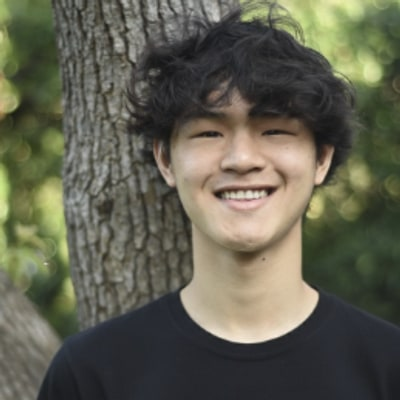
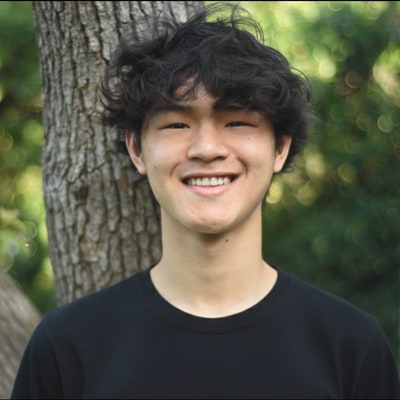
Roster: all 18 Eta pledges now link to LinkedIn; current LinkedIn headshots for six; Alejandra Marcos Cortezo spelling corrected; two profile URLs updated

diff --git a/brothers.html b/brothers.html
@@ -958,19 +958,34 @@
             </div>
           </div>
 
-          <!-- Aljandra Marcos Cortezo -->
+          <!-- Alejandra Marcos Cortezo -->
           <div class="profile-card">
             <div class="profile-image-container">
               <img
-                src="assets/brother-images-compressed/AljandraMarcosCortezo.jpg"
-                alt="Aljandra Marcos Cortezo"
+                src="assets/brother-images-compressed/AlejandraMarcosCortezo.jpg"
+                alt="Alejandra Marcos Cortezo"
                 class="profile-image"
                 loading="lazy"
                 decoding="async"
               />
+              <div class="linkedin-overlay">
+                <a
+                  href="https://www.linkedin.com/in/alejandramarcoscortezo/"
+                  class="linkedin-link"
+                  target="_blank"
+                  rel="noopener noreferrer"
+                >
+                  <img
+                    src="assets/brother-images-compressed/linkedin.png"
+                    alt="LinkedIn"
+                    class="linkedin-icon"
+                  />
+                  <span>View Profile</span>
+                </a>
+              </div>
             </div>
             <div class="profile-info">
-              <div class="profile-name">Aljandra Marcos Cortezo</div>
+              <div class="profile-name">Alejandra Marcos Cortezo</div>
             </div>
           </div>
 
@@ -1945,6 +1960,21 @@
                 loading="lazy"
                 decoding="async"
               />
+              <div class="linkedin-overlay">
+                <a
+                  href="https://www.linkedin.com/in/isabella-lele-220009268/"
+                  class="linkedin-link"
+                  target="_blank"
+                  rel="noopener noreferrer"
+                >
+                  <img
+                    src="assets/brother-images-compressed/linkedin.png"
+                    alt="LinkedIn"
+                    class="linkedin-icon"
+                  />
+                  <span>View Profile</span>
+                </a>
+              </div>
             </div>
             <div class="profile-info">
               <div class="profile-name">Isabella Lele</div>
@@ -2211,7 +2241,7 @@
               />
               <div class="linkedin-overlay">
                 <a
-                  href="https://www.linkedin.com/in/una-o-leary-0ab56237b/"
+                  href="https://www.linkedin.com/in/unaoleary/"
                   class="linkedin-link"
                   target="_blank"
                   rel="noopener noreferrer"
@@ -2304,7 +2334,7 @@
               />
               <div class="linkedin-overlay">
                 <a
-                  href="https://www.linkedin.com/in/shubh-patel-66412830a/"
+                  href="https://www.linkedin.com/in/shubh-patel-vandy2030/"
                   class="linkedin-link"
                   target="_blank"
                   rel="noopener noreferrer"
@@ -3573,6 +3603,21 @@
                 loading="lazy"
                 decoding="async"
               />
+              <div class="linkedin-overlay">
+                <a
+                  href="https://www.linkedin.com/in/michaelzhang927/"
+                  class="linkedin-link"
+                  target="_blank"
+                  rel="noopener noreferrer"
+                >
+                  <img
+                    src="assets/brother-images-compressed/linkedin.png"
+                    alt="LinkedIn"
+                    class="linkedin-icon"
+                  />
+                  <span>View Profile</span>
+                </a>
+              </div>
             </div>
             <div class="profile-info">
               <div class="profile-name">Michael Zhang</div>
